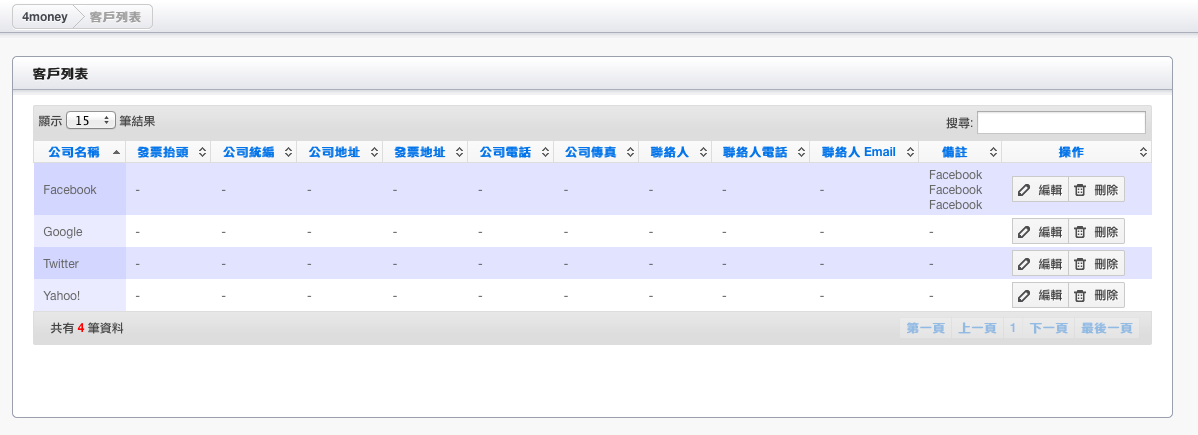
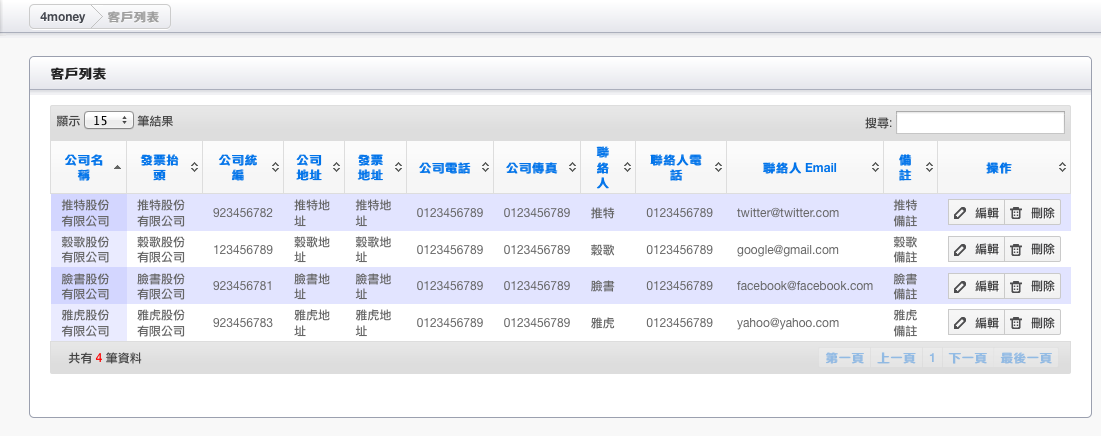
FIX: insert customer data at create quotation page

diff --git a/tpl/modal_customer_list.html b/tpl/modal_customer_list.html
@@ -4,12 +4,13 @@
 <title>4money</title>
 <link rel="stylesheet" href="{{full_doc_root}}/css/css3buttons.css" type="text/css" media="screen" />
 <script type="text/javascript" src="{{full_doc_root}}/js/jquery.js"></script>
+<script type="text/javascript" src="{{full_doc_root}}/js/jquery.colorbox.js"></script>
 {% include '_list_header.html' %}
 {% endblock %}
 
 {% block content %}
 
-<article class="module width_full">
+<article class="module width_full" style="min-width:400px;">
     <header>
         <h3>{{breadcrumb_title}}</h3>
     </header>
@@ -28,7 +29,7 @@
                     <td>{{customer.customer_name}}</td>
                     <td>{{customer.customer_uid|default:'-'}}</td>
                     <td nowrap>
-                        <a class="button insert_this_customer"><span class="pen icon"></span>代入這家</a>
+                        <a class="button insert_this_customer" rel="{{customer.customer_id}}"><span class="pen icon"></span>代入這家</a>
                     </td>
                 </tr>
                 {% endfor %}
@@ -42,6 +43,13 @@ $(function() {
     $('#customer_list_table').dataTable({"bJQueryUI": true, "bAutoWidth": true, "sPaginationType": "full_numbers", "oLanguage":{
         "sUrl": "js/datatables_tw.txt"
         }
+    });
+    $('.insert_this_customer').live('click', function() {
+        var get_url = '{{doc_root}}/ajax_get_customer_data/' + $(this).attr('rel');
+        $.get(get_url, function(data) {
+            parent.$('#customer_info').val(data);
+            parent.$.fn.colorbox.close();
+        });
     });
 });
 </script>

diff --git a/tpl/ajax_get_customer_data.html b/tpl/ajax_get_customer_data.html
@@ -1,0 +1,9 @@
+公司寶號：{{customer.customer_name}}
+公司統編：{{customer.customer_uid}}
+公司地址：{{customer.customer_addr}}
+公司電話：{{customer.customer_phone}}
+公司傳真：{{customer.customer_fax}}
+聯絡人：{{customer.contact_name}}
+聯絡電話：{{customer.contact_phone}}
+聯絡 Email：{{customer.contact_email}}
+

diff --git a/tpl/quotation_create.html b/tpl/quotation_create.html
@@ -174,6 +174,6 @@ Email：{{company_email}}
         }
     });
 
-    $('#insert_customer_data').colorbox();
+    $('#insert_customer_data').colorbox({iframe:true, width:"600px", height: "400px"});
 </script>
 {% endblock %}

diff --git a/apps/customer.php b/apps/customer.php
@@ -135,3 +135,13 @@ $app->post('/ajax_delete_customer', function() use ($app) {
         $app->render('_notice.html', $data);
     }
 });
+
+$app->get('/ajax_get_customer_data/:id', function($id) use ($app) {
+    $customer = ORM::for_table('customer')->find_one($id);
+    if ($customer) {
+        $data = array('customer' => $customer);
+        $app->render('ajax_get_customer_data.html', $data);
+    } else {
+        echo '';
+    }
+});

diff --git a/README.rst b/README.rst
@@ -22,6 +22,10 @@ How to Print
 
 .. image:: https://github.com/pct/4money/raw/master/images/4money_screenshot3.png
 
+Insert Customer Data to Quotation
+
+.. image:: https://github.com/pct/4money/raw/master/images/4money_screenshot6.png
+
 Quotation
 
 .. image:: https://github.com/pct/4money/raw/master/images/4money_screenshot2.png
@@ -134,6 +138,12 @@ None. Please tell me your ideas, thanks!
 
 Changelog
 ----------
+v0.1.6::
+
+    NEW: customers manage
+    NEW: insert customer data button at create quotation page
+    NOTES: you should use sql/4money_v0.1.5_to_v0.1.6.sql to update your DB.
+
 v0.1.5::
 
     NEW: edit quotation
